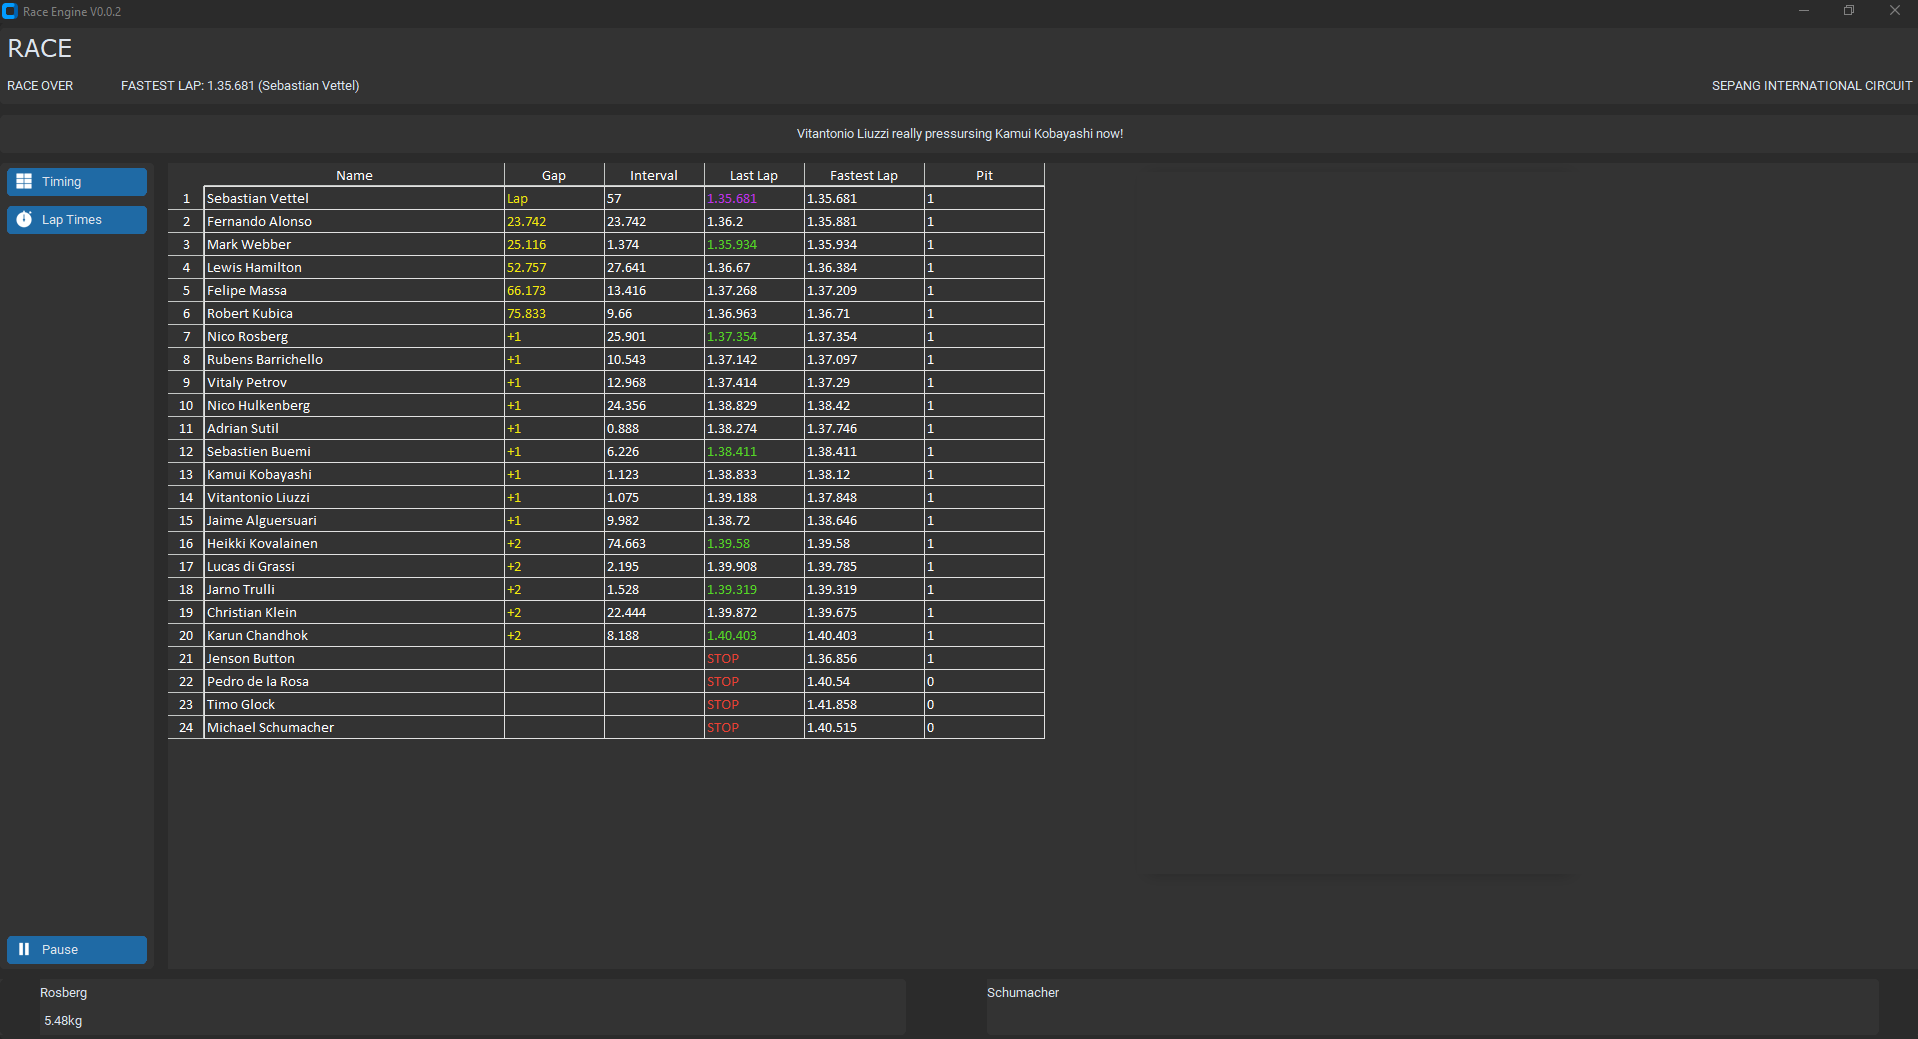
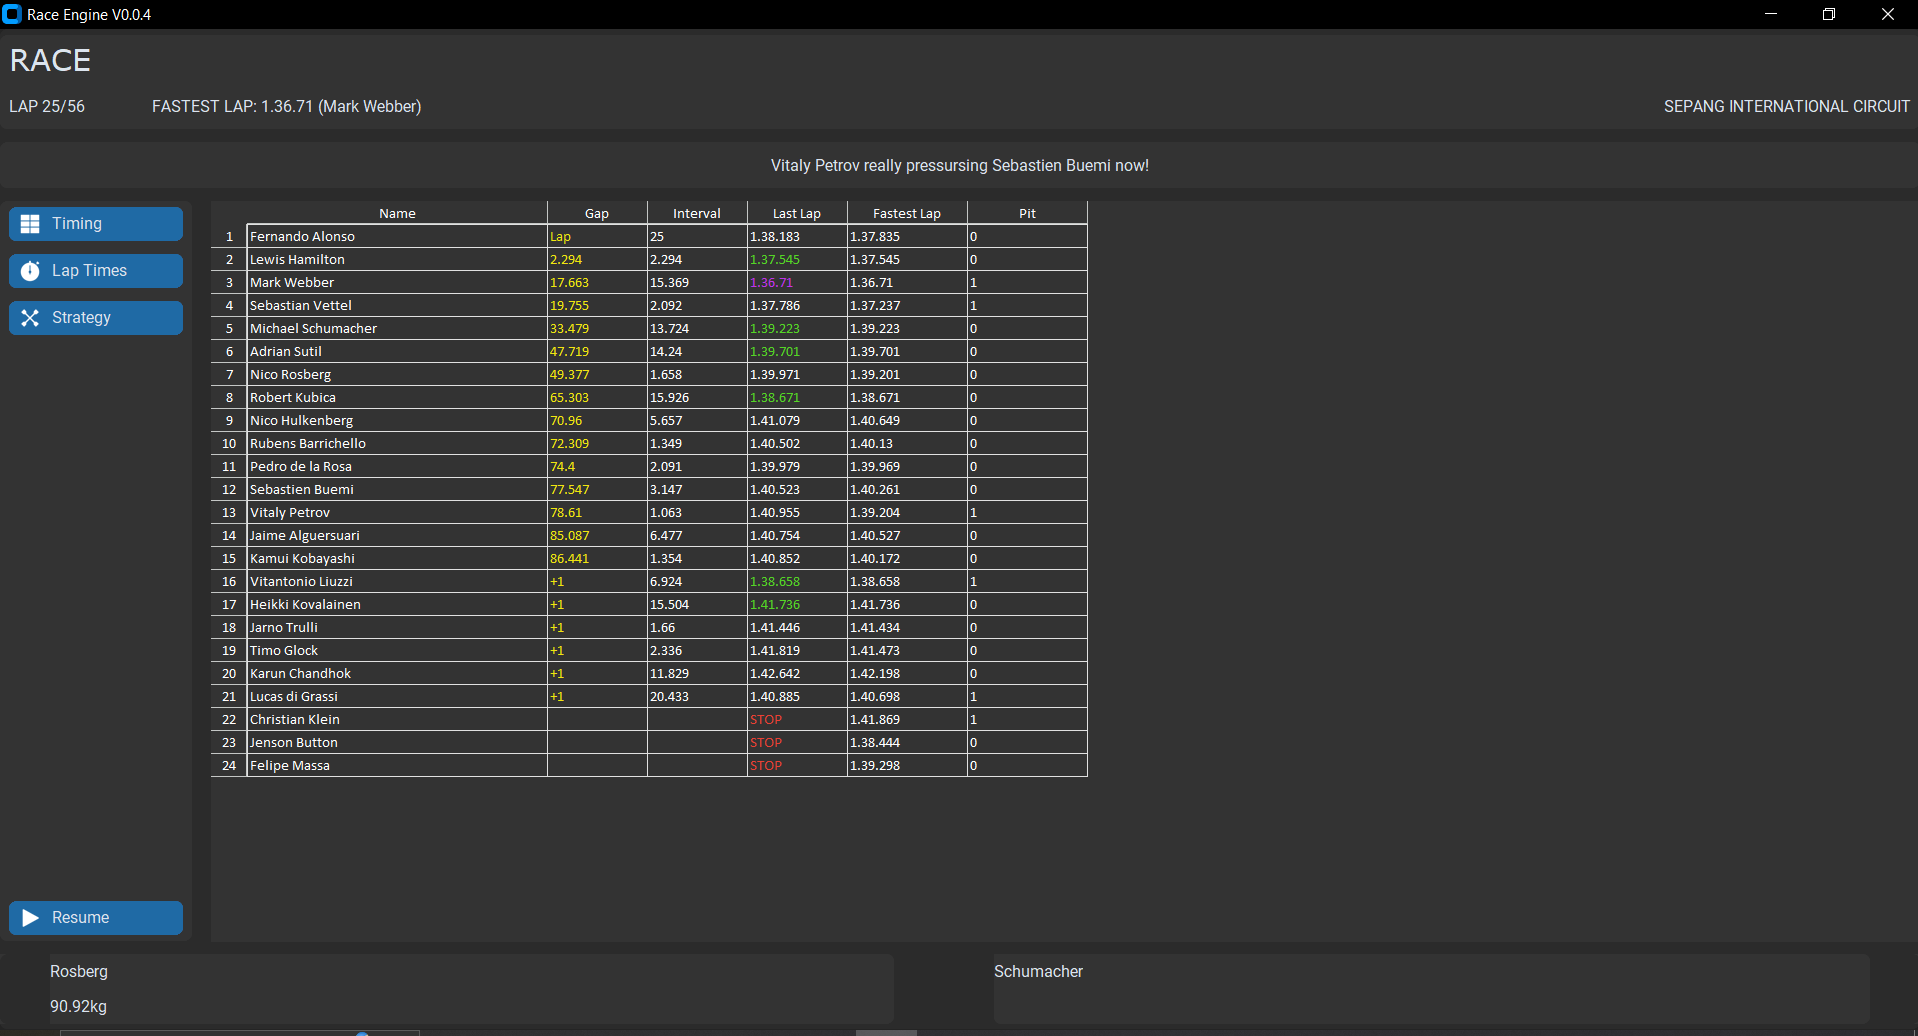
V0.0.4

diff --git a/src/race_engine_view/custom_widgets/strategy_editor.py b/src/race_engine_view/custom_widgets/strategy_editor.py
@@ -1,0 +1,206 @@
+from tkinter import ttk
+from tkinter import *
+
+import customtkinter
+
+
+
+class StrategyEditor:
+	def __init__(self, parent, view, driver_name, start_col, start_row):
+		self.parent = parent
+		self.view = view
+		self.start_col = start_col
+		self.number_laps = 56
+
+		self.one_third_distance = int(self.number_laps / 3)
+		self.half_distance = int(self.number_laps / 2)
+		self.two_third_distance = int(2 * (self.number_laps / 3))
+		self.one_quarter_distance = int(self.number_laps / 4)
+		self.three_quarters_distance = int(3 * (self.number_laps / 4))
+
+		customtkinter.CTkLabel(self.parent, text=driver_name, anchor=W).grid(row=start_row, column=start_col, columnspan=4, padx=self.view.padx, pady=self.view.pady, sticky="EW")
+
+		self.setup_variables()
+
+		self.progress_bars = []
+		self.lap_labels = []
+		self.minus_buttons = []
+		self.plus_buttons = []
+
+		row = start_row + 1
+		for idx in [0, 1, 2]:
+			self.setup_edit_widgets(idx, row)
+			row += 2
+
+		self.set_default_pit_laps(1)
+
+	def setup_variables(self):
+		self.pit1_lap = None
+		self.pit2_lap = None
+		self.pit3_lap = None
+
+		self.pit1_var = customtkinter.StringVar(value="on")
+		self.pit2_var = customtkinter.StringVar(value="off")
+		self.pit3_var = customtkinter.StringVar(value="off")
+
+		self.pit_number_vars = [self.pit1_var, self.pit2_var, self.pit3_var]
+
+	def setup_edit_widgets(self, idx, row):
+		btn_width = 40
+
+		reduced_pady = 1
+		l = customtkinter.CTkLabel(self.parent, text="Some Lap")
+		l.grid(row=row, column=self.start_col + 2, sticky="EW", padx=self.view.padx, pady=(self.view.pady, reduced_pady))
+		self.lap_labels.append(l)
+
+		m = customtkinter.CTkButton(self.parent, text= "-", width=btn_width, command=lambda idx=idx:self.minus_lap_event(idx))
+		m.grid(row=row+1, column=self.start_col + 1, sticky="EW", padx=self.view.padx, pady=(reduced_pady, self.view.pady))
+		self.minus_buttons.append(m)
+
+		c = customtkinter.CTkCheckBox(self.parent, text=f"{idx + 1} Stop", variable=self.pit_number_vars[idx], onvalue="on", offvalue="off", width=10,
+								command=lambda idx=idx: self.pit_strategy_combo_event(idx))
+		c.grid(row=row, column=self.start_col, rowspan=2, sticky="SE", padx=self.view.padx, pady=(reduced_pady, self.view.pady))
+
+		p = customtkinter.CTkProgressBar(self.parent, orientation="horizontal")
+		p.grid(row=row+1, column=self.start_col + 2, sticky="EW", padx=self.view.padx, pady=(reduced_pady, self.view.pady))
+		self.progress_bars.append(p)
+
+		p = customtkinter.CTkButton(self.parent, text= "+", width=btn_width, command=lambda idx=idx:self.plus_lap_event(idx))
+		p.grid(row=row+1, column=self.start_col + 3, sticky="EW", padx=self.view.padx, pady=(reduced_pady, self.view.pady))
+		self.plus_buttons.append(p)
+
+	def pit_strategy_combo_event(self, idx_clicked):
+		for idx, var in enumerate(self.pit_number_vars):
+			if idx == idx_clicked:
+				var.set("on")
+			else:
+				var.set("off")
+
+		self.set_default_pit_laps(idx_clicked + 1)
+
+	def set_default_pit_laps(self, number_of_stops):
+		self.update_lap_label(1, None)
+		self.update_lap_label(2, None)
+
+		# disable buttons
+		self.minus_buttons[1].configure(state="disabled")
+		self.minus_buttons[2].configure(state="disabled")
+
+		self.plus_buttons[1].configure(state="disabled")
+		self.plus_buttons[2].configure(state="disabled")
+
+		# SET PROGRESS BARS
+		self.progress_bars[1].set(0)
+		self.progress_bars[2].set(0)
+
+		if number_of_stops == 1:
+			self.progress_bars[0].set(0.5)
+			self.pit1_lap = self.half_distance
+			self.update_lap_label(0, self.pit1_lap)
+			
+		elif number_of_stops == 2:
+			self.progress_bars[0].set(0.33)
+			self.pit1_lap = self.one_third_distance
+			self.update_lap_label(0, self.pit1_lap)
+
+			self.progress_bars[1].set(0.66)
+			self.pit2_lap = self.two_third_distance
+			self.update_lap_label(1, self.pit2_lap)
+			self.minus_buttons[1].configure(state="normal")
+			self.plus_buttons[1].configure(state="normal")
+
+		elif number_of_stops == 3:
+			self.progress_bars[0].set(0.25)
+			self.pit1_lap = self.one_quarter_distance
+			self.update_lap_label(0, self.pit1_lap)
+
+			self.progress_bars[1].set(0.50)	
+			self.pit2_lap = self.half_distance
+			self.update_lap_label(1, self.pit2_lap)
+			self.minus_buttons[1].configure(state="normal")
+			self.plus_buttons[1].configure(state="normal")
+
+			self.progress_bars[2].set(0.75)		
+			self.pit3_lap = self.three_quarters_distance
+			self.update_lap_label(2, self.pit3_lap)	
+			self.minus_buttons[2].configure(state="normal")
+			self.plus_buttons[2].configure(state="normal")
+
+	def update_lap_label(self, label_idx, pit_lap):
+		if pit_lap == None:
+			self.lap_labels[label_idx].configure(text="N/A")
+		else:
+			percentage = int((pit_lap/self.number_laps)*100)
+			self.lap_labels[label_idx].configure(text=f"Lap {pit_lap} / {self.number_laps} ({percentage}%)")
+			self.progress_bars[label_idx].set(percentage/100)
+
+	def minus_lap_event(self, idx):
+		process = True
+
+		# AVOID LAP 1 or BELOW
+		if idx == 0 and self.pit1_lap < 3:
+			process = False
+
+		# AVOID STOP 2 BEFORE STOP 1
+		if idx == 1 and self.pit2_lap - self.pit1_lap == 1:
+			process = False
+
+		# AVOID STOP 3 BEFORE STOP 2
+		if idx == 2 and self.pit3_lap - self.pit2_lap == 1:
+			process = False
+
+		if process is True:
+			if idx == 0:
+				self.pit1_lap -= 1
+				self.update_lap_label(idx, self.pit1_lap)
+
+			elif idx == 1:
+				self.pit2_lap -= 1
+				self.update_lap_label(idx, self.pit2_lap)
+
+			elif idx == 2:
+				self.pit3_lap -= 1
+				self.update_lap_label(idx, self.pit3_lap)
+
+	def plus_lap_event(self, idx):
+		process = True
+
+		# AVOID LAST 1 or ABOVE
+		if idx == 0 and self.pit1_lap == self.number_laps - 1:
+			process = False
+		
+		if idx == 1 and self.pit2_lap == self.number_laps - 1:
+			process = False
+
+		if idx == 2 and self.pit3_lap == self.number_laps - 1:
+			process = False
+
+		# AVOID STOP 1 AFTTER STOP 2
+		if idx == 0 and self.pit2_lap is not None and self.pit2_lap - self.pit1_lap == 1:
+			process = False
+
+		# AVOID STOP 2 AFTER STOP 2
+		if idx == 1 and self.pit3_lap is not None and self.pit3_lap - self.pit2_lap == 1:
+			process = False
+
+		if process is True:
+			if idx == 0:
+				self.pit1_lap += 1
+				self.update_lap_label(idx, self.pit1_lap)
+
+			elif idx == 1:
+				self.pit2_lap += 1
+				self.update_lap_label(idx, self.pit2_lap)
+
+			elif idx == 2:
+				self.pit3_lap += 1
+				self.update_lap_label(idx, self.pit3_lap)
+
+	def get_data(self):
+		data = {
+			"pit1_lap": self.pit1_lap,
+			"pit2_lap": self.pit2_lap,
+			"pit3_lap": self.pit3_lap,
+		}
+
+		return data

diff --git a/src/race_engine_view/timing_screen.py b/src/race_engine_view/timing_screen.py
@@ -10,7 +10,7 @@ style.use('dark_background')
 from matplotlib.backends.backend_tkagg import FigureCanvasTkAgg, NavigationToolbar2Tk
 from matplotlib.figure import Figure
 
-from race_engine_view.custom_widgets import timing_screen_table
+from race_engine_view.custom_widgets import timing_screen_table, strategy_editor
 
 class TimingScreen(customtkinter.CTkFrame):
 	def __init__(self, master, view):
@@ -44,6 +44,11 @@ class TimingScreen(customtkinter.CTkFrame):
 		self.player_frame.grid_columnconfigure(0, weight=1)
 		self.player_frame.grid_columnconfigure(1, weight=1)
 
+		# note, frames are used as seperators on the strategy frame, these are expanded by the commands below
+		self.strategy_frame.grid_columnconfigure(6, weight=1)
+		self.strategy_frame.grid_columnconfigure(12, weight=1)
+		self.strategy_frame.grid_rowconfigure(10, weight=1)
+
 	def setup_frames(self):
 		self.top_frame = customtkinter.CTkFrame(self)
 		self.top_frame.grid(row=0, column=0, columnspan=2, sticky="EW", pady=self.view.pady)
@@ -53,6 +58,9 @@ class TimingScreen(customtkinter.CTkFrame):
 
 		self.button_frame = customtkinter.CTkFrame(self)
 		self.button_frame.grid(row=2, column=0, sticky="NSEW", pady=self.view.pady, padx=(0, self.view.padx))
+
+		self.strategy_frame = customtkinter.CTkFrame(self)
+		self.strategy_frame.grid(row=2, column=1, sticky="NSEW", pady=self.view.pady, padx=(self.view.padx, 0))
 
 		self.laptimes_frame = customtkinter.CTkFrame(self)
 		self.laptimes_frame.grid(row=2, column=1, sticky="NSEW", pady=self.view.pady, padx=(self.view.padx, 0))
@@ -88,6 +96,7 @@ class TimingScreen(customtkinter.CTkFrame):
 		self.commentary_label = customtkinter.CTkLabel(self.commentary_frame, text="")
 		self.commentary_label.grid(row=1, column=1, padx=self.view.padx, pady=self.view.pady, sticky="EW")
 
+
 		# driver labels
 		customtkinter.CTkLabel(self.driver1_frame, text="Rosberg").grid(row=1, column=1, sticky="EW")
 		customtkinter.CTkLabel(self.driver2_frame, text="Schumacher").grid(row=1, column=1, sticky="EW")
@@ -105,6 +114,9 @@ class TimingScreen(customtkinter.CTkFrame):
 
 		self.lap_times_button = customtkinter.CTkButton(self.button_frame, text="Lap Times", command=lambda window="laptimes": self.show_window(window), image=self.view.stopwatch_icon2, anchor="w")
 		self.lap_times_button.grid(row=1, column=0, sticky="EW", padx=self.view.padx, pady=self.view.pady)
+
+		self.strategy_button = customtkinter.CTkButton(self.button_frame, text="Strategy", command=lambda window="strategy": self.show_window(window), image=self.view.pit_icon2, anchor="w")
+		self.strategy_button.grid(row=2, column=0, sticky="EW", padx=self.view.padx, pady=self.view.pady)
 
 		self.start_btn = customtkinter.CTkButton(self.button_frame, text="Start Race", command=self.start_race, image=self.view.play_icon2, anchor="w")
 		self.start_btn.grid(row=10, column=0, padx=self.view.padx, pady=self.view.pady, sticky="SEW")
@@ -127,6 +139,20 @@ class TimingScreen(customtkinter.CTkFrame):
 		self.driver2_laptime_combo.grid(row=1, column=3, sticky="EW", padx=(5, 5), pady=self.view.pady)
 		self.driver2_laptime_combo.set("Michael Schumacher")
 
+		# STRATEGY CHECKBOXES
+		self.driver1_pit1_var = customtkinter.StringVar(value="on")
+		self.driver1_pit2_var = customtkinter.StringVar(value="off")
+		self.driver1_pit3_var = customtkinter.StringVar(value="off")
+		self.driver1_pit_vars = [self.driver1_pit1_var, self.driver1_pit2_var, self.driver1_pit3_var]
+
+		# STRATEGY EDITORS
+		self.strategy_editor_driver1 = strategy_editor.StrategyEditor(self.strategy_frame, self.view, "Rosberg", 1, 1)
+
+		# hack to create a seperator
+		customtkinter.CTkFrame(self.strategy_frame, width=10).grid(column=6, row=1, rowspan=20, padx=(100, 10), sticky="NSEW")
+		self.strategy_editor_driver2 = strategy_editor.StrategyEditor(self.strategy_frame, self.view, "Schumacher", 7, 1)
+		customtkinter.CTkFrame(self.strategy_frame, width=10).grid(column=12, row=1, rowspan=20, padx=50, sticky="NSEW")
+		
 	def setup_plots(self):
 		# LAPTIMES
 		self.laptimes_figure = Figure(figsize=(5,5), dpi=100)
@@ -163,6 +189,8 @@ class TimingScreen(customtkinter.CTkFrame):
 			self.timing_frame.tkraise()
 		elif window == "laptimes":
 			self.laptimes_frame.tkraise()
+		elif window == "strategy":
+			self.strategy_frame.tkraise()
 
 	def update_laptimes_plot(self, event=None):
 		self.laptimes_axis.cla()
@@ -187,3 +215,5 @@ class TimingScreen(customtkinter.CTkFrame):
 		self.laptimes_axis.set_yticklabels([self.view.milliseconds_to_minutes_seconds(t) for t in default_y_ticks])
 
 		self.laptimes_canvas.draw()
+
+

diff --git a/src/race_engine_view/race_engine_icons.py b/src/race_engine_view/race_engine_icons.py
@@ -20,6 +20,9 @@ def setup_icons(view):
[1 lines of base64/hex data omitted]
 	view.timing_icon2 = customtkinter.CTkImage(light_image=decode_base64_image(size, data), size=size)
 
[1 lines of base64/hex data omitted]
+	view.pit_icon2 = customtkinter.CTkImage(light_image=decode_base64_image(size, data), size=size)
+
 
 def decode_base64_image(size, data):
 

diff --git a/src/race_engine_model/race_engine_particpant_model.py b/src/race_engine_model/race_engine_particpant_model.py
@@ -74,7 +74,7 @@ class RaceEngineParticpantModel:
 				
 			self.laptime = self.base_laptime + random.randint(0, 700) + self.car_model.fuel_effect + self.car_model.tyre_wear + dirty_air_effect
 
-			if self.current_lap == self.pit1_lap:
+			if self.current_lap in [self.pit1_lap, self.pit2_lap, self.pit3_lap]:
 				self.status = "pitting in"
 
 			if "pitting in" in self.status:
@@ -107,6 +107,8 @@ class RaceEngineParticpantModel:
 		
 	def calculate_pitstop_laps(self):
 		self.pit1_lap = random.randint(19, 32)
+		self.pit2_lap = None
+		self.pit3_lap = None
 
 	def calculate_if_retires(self):
 		self.retires = False
@@ -121,3 +123,15 @@ class RaceEngineParticpantModel:
 			self.fastest_laptime = self.laptime
 		elif min(self.laptimes) == self.laptime:
 			self.fastest_laptime = self.laptime
+
+	def update_player_pitstop_laps(self, data):
+		'''
+		data is a dict optained from the view
+		{
+		"pit1_lap": 24,
+		"pit2_lap": ... etc
+		}
+		'''
+		self.pit1_lap = data["pit1_lap"]
+		self.pit2_lap = data["pit2_lap"]
+		self.pit3_lap = data["pit3_lap"]

diff --git a/src/race_engine_model/race_engine_model.py b/src/race_engine_model/race_engine_model.py
@@ -34,6 +34,9 @@ class RaceEngineModel:
 
 		self.retirements = []
 
+		self.player_driver1 = self.get_particpant_model_by_name("Nico Rosberg")
+		self.player_driver2 = self.get_particpant_model_by_name("Michael Schumacher")
+
 	def log_event(self, event):
 		logging.info(f"Lap {self.current_lap}: {event}")
 
@@ -325,3 +328,8 @@ class RaceEngineModel:
 			data["laptimes"][p.name] = copy.deepcopy(p.laptimes)
 
 		return data
+	
+	def update_player_drivers_strategy(self, driver1_data, driver2_data):
+		self.player_driver1.update_player_pitstop_laps(driver1_data)
+		self.player_driver2.update_player_pitstop_laps(driver2_data)
+		

diff --git a/src/race_engine_controller/race_engine_controller.py b/src/race_engine_controller/race_engine_controller.py
@@ -26,6 +26,12 @@ class RaceEngineController:
 
 			self.model.advance()
 			self.view.timing_screen.update_view(self.model.get_data_for_view())
+
+			# GET PIT STRATEGY FROM VIEW
+			driver1_data = self.view.timing_screen.strategy_editor_driver1.get_data()
+			driver2_data = self.view.timing_screen.strategy_editor_driver2.get_data()
+			self.model.update_player_drivers_strategy(driver1_data, driver2_data)
+			
 			self.app.after(3000, self.simulate_race)
 
 	def pause_resume(self):

diff --git a/src/main.py b/src/main.py
@@ -6,7 +6,7 @@ customtkinter.set_appearance_mode("System")  # Modes: system (default), light, d
 customtkinter.set_default_color_theme("blue")  # Themes: blue (default), dark-blue, green
 
 app = customtkinter.CTk()  # create CTk window like you do with the Tk window
-app.title("Race Engine V0.0.3")
+app.title("Race Engine V0.0.4")
 controller = race_engine_controller.RaceEngineController(app)
 
 app.after(0, lambda:app.state("zoomed"))
